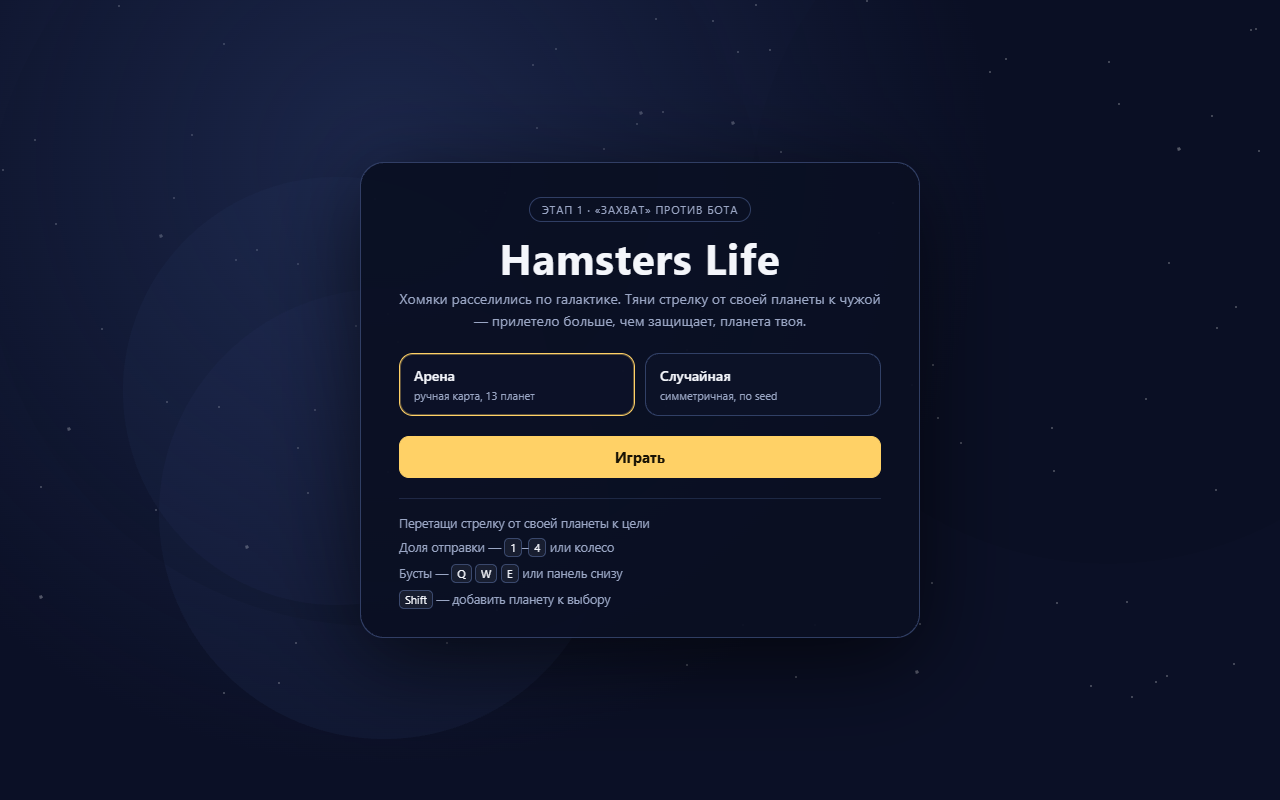
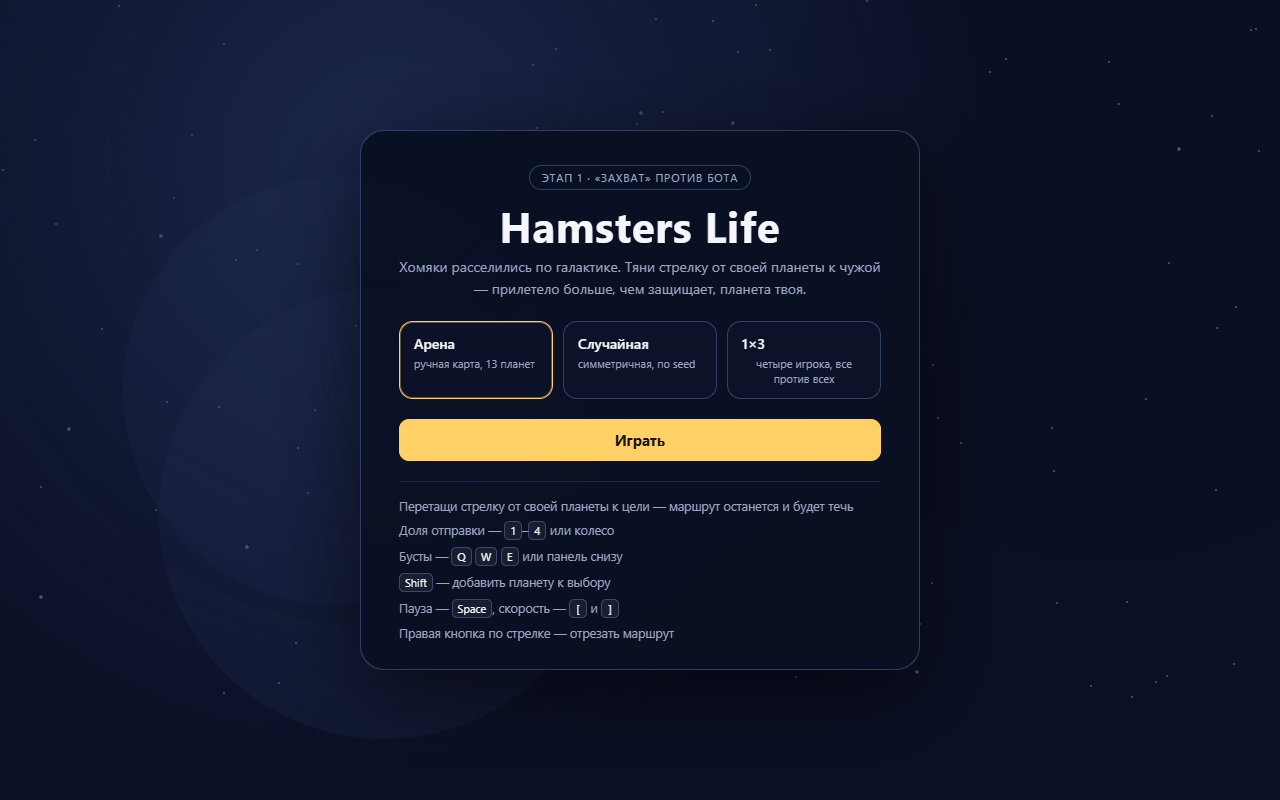
feat(ui): пауза, горячие клавиши скорости и заморозка на итогах
Кнопка паузы и пробел, [ и ] меняют скорость по списку 0.2-2, бот получает ту же скорость. На экране итогов мир останавливается. Памятка управления в меню дополнена маршрутами, паузой и резкой. Тесты stepSpeed, 169 тестов.

Changed region(s): [[0.3125, 0.1875, 0.6875, 0.8125], [0.2812, 0.1562, 0.4062, 0.2188]]

diff --git a/apps/client/src/input/keyboardInput.ts b/apps/client/src/input/keyboardInput.ts
@@ -1,9 +1,12 @@
 /**
- * Клавиатура: доли 1–4, бусты Q/W/E. Раскладка собрана таблицей, поэтому
- * добавление горячей клавиши — одна строка, а не ветка в обработчике.
+ * Клавиатура: доли 1–4, бусты Q/W/E, пауза — пробел, скорость — [ и ].
+ * Раскладка собрана таблицами, поэтому новая горячая клавиша — одна строка,
+ * а не ветка в обработчике. Клавиши скорости читаются по `code`, чтобы
+ * работать в русской раскладке.
  */
 import type { BoostKind, Ratio } from '@hamsters/core';
 import type { GamePresenter } from '../presenter/gamePresenter';
+import { stepSpeed } from '../ui/speeds';
 
 const RATIO_KEYS: Readonly<Record<string, Ratio>> = {
   '1': 25,
@@ -21,13 +24,18 @@ const BOOST_KEYS: Readonly<Record<string, BoostKind>> = {
   у: 'defense',
 };
 
-export class KeyboardInput {
-  readonly #presenter: () => GamePresenter | null;
-  readonly #onRatio: (ratio: Ratio) => void;
+export interface KeyboardInputOptions {
+  readonly presenter: () => GamePresenter | null;
+  readonly onRatio: (ratio: Ratio) => void;
+  readonly onSpeed: (speed: number) => void;
+  readonly onTogglePause: () => void;
+}
 
-  constructor(presenter: () => GamePresenter | null, onRatio: (ratio: Ratio) => void) {
-    this.#presenter = presenter;
-    this.#onRatio = onRatio;
+export class KeyboardInput {
+  readonly #options: KeyboardInputOptions;
+
+  constructor(options: KeyboardInputOptions) {
+    this.#options = options;
   }
 
   attach(): void {
@@ -39,14 +47,26 @@ export class KeyboardInput {
   }
 
   #onKeyDown = (event: KeyboardEvent): void => {
-    const presenter = this.#presenter();
+    const presenter = this.#options.presenter();
     if (!presenter) return;
-    const key = event.key.toLowerCase();
 
+    if (event.code === 'Space') {
+      event.preventDefault();
+      this.#options.onTogglePause();
+      return;
+    }
+
+    if (event.code === 'BracketLeft' || event.code === 'BracketRight') {
+      const direction = event.code === 'BracketRight' ? 1 : -1;
+      this.#options.onSpeed(stepSpeed(presenter.speed, direction));
+      return;
+    }
+
+    const key = event.key.toLowerCase();
     const ratio = RATIO_KEYS[key];
     if (ratio !== undefined) {
       presenter.setRatio(ratio);
-      this.#onRatio(ratio);
+      this.#options.onRatio(ratio);
       return;
     }
 

diff --git a/apps/client/src/main.tsx b/apps/client/src/main.tsx
@@ -61,8 +61,7 @@ let bots: BotRunner[] = [];
 let recorder: MatchRecorder | null = null;
 let matchCounter = 0;
 
-function mapFor(choice: string, seed: number): MapDefinition {
-  if (choice === 'three') return generateDuelMap(seed, { playerCount: 4 });
+function mapFor(choice: string, seed: number): MapDefinition {  if (choice === 'three') return generateDuelMap(seed, { playerCount: 4 });
   if (stressMode) return generateDuelMap(seed, { neutralPairs: 18 });
   return choice === 'random' ? generateDuelMap(seed) : getMap(CONTENT.defaultMapName);
 }
@@ -147,16 +146,32 @@ function downloadReplay(): void {
   URL.revokeObjectURL(url);
 }
 
+let lastSpeed = 1;
+
+/** Скорость применяется ко всем участникам: мир, игрок и боты. */
+function applySpeed(value: number): void {
+  if (value > 0) lastSpeed = value;
+  setSpeed(value);
+  presenter?.setSpeed(value);
+  for (const bot of bots) bot.setSpeed(value);
+}
+
+function togglePause(): void {
+  applySpeed(speed() > 0 ? 0 : lastSpeed);
+}
+
 const pointer = new PointerInput(app.canvas, scene, () => presenter);
 pointer.attach();
 
 // Браузер разрешает звук только после действия пользователя.
 window.addEventListener('pointerdown', () => scene.unlockAudio(), { once: true });
 
-const keyboard = new KeyboardInput(
-  () => presenter,
-  (value) => setRatio(value),
-);
+const keyboard = new KeyboardInput({
+  presenter: () => presenter,
+  onRatio: (value) => setRatio(value),
+  onSpeed: applySpeed,
+  onTogglePause: togglePause,
+});
 keyboard.attach();
 
 const wheel = new WheelInput(app.canvas, () => presenter, (value) => setRatio(value));
@@ -187,11 +202,8 @@ render(
         // В меню выбор только запоминается; в игре — начинается новый матч.
         if (started()) startMatch(choice);
       }}
-      onSpeed={(value) => {
-        setSpeed(value);
-        presenter?.setSpeed(value);
-        for (const bot of bots) bot.setSpeed(value);
-      }}
+      onSpeed={applySpeed}
+      onTogglePause={togglePause}
       onStart={() => {
         scene.unlockAudio();
         startMatch();

diff --git a/apps/client/src/ui/GameHud.tsx b/apps/client/src/ui/GameHud.tsx
@@ -3,6 +3,7 @@ import type { BoostKind, Ratio } from '@hamsters/core';
 import { For, Show } from 'solid-js';
 import type { BoardView, HudView, QualityLevel } from '../presenter/viewModel';
 import { BoostIcon } from './BoostIcon';
+import { SPEEDS } from './speeds';
 
 const RATIOS: readonly Ratio[] = [25, 50, 75, 100];
 
@@ -19,7 +20,7 @@ const MAP_OPTIONS: readonly { value: string; label: string }[] = [
 ];
 
 /** Скорость игры: шаг 0.2 до 1, затем 1.5 и 2. */
-const SPEEDS: readonly number[] = [0.2, 0.4, 0.6, 0.8, 1, 1.5, 2];
+const SPEED_LABEL = (value: number): string => (value === 0 ? 'Пауза' : `×${value}`);
 
 const BOOST_LABEL: Readonly<Record<BoostKind, string>> = {
   production: 'Колесо',
@@ -40,6 +41,7 @@ export interface GameHudProps {
   readonly onQuality: (quality: QualityLevel) => void;
   readonly onMap: (choice: string) => void;
   readonly onSpeed: (speed: number) => void;
+  readonly onTogglePause: () => void;
   readonly onAudio: (enabled: boolean) => void;
   readonly onRestart: () => void;
   readonly onDownloadReplay: () => void;
@@ -82,14 +84,22 @@ export function GameHud(props: GameHudProps) {
         </div>
 
         <div class="top-actions">
+          <button
+            class="button"
+            type="button"
+            title="Пауза (пробел)"
+            onClick={props.onTogglePause}
+          >
+            {props.speed() === 0 ? '▶' : '⏸'}
+          </button>
           <select
             class="select"
             aria-label="Скорость игры"
-            value={String(props.speed())}
+            value={String(props.speed() === 0 ? 1 : props.speed())}
             onChange={(event) => props.onSpeed(Number(event.currentTarget.value))}
           >
             <For each={SPEEDS}>
-              {(value) => <option value={String(value)}>{`×${value}`}</option>}
+              {(value) => <option value={String(value)}>{SPEED_LABEL(value)}</option>}
             </For>
           </select>
           <select

diff --git a/apps/client/src/ui/MainMenu.tsx b/apps/client/src/ui/MainMenu.tsx
@@ -45,7 +45,7 @@ export function MainMenu(props: MainMenuProps) {
         </button>
 
         <ul class="menu__controls">
-          <li>Перетащи стрелку от своей планеты к цели</li>
+          <li>Перетащи стрелку от своей планеты к цели — маршрут останется и будет течь</li>
           <li>
             Доля отправки — <kbd>1</kbd>–<kbd>4</kbd> или колесо
           </li>
@@ -55,6 +55,10 @@ export function MainMenu(props: MainMenuProps) {
           <li>
             <kbd>Shift</kbd> — добавить планету к выбору
           </li>
+          <li>
+            Пауза — <kbd>Space</kbd>, скорость — <kbd>[</kbd> и <kbd>]</kbd>
+          </li>
+          <li>Правая кнопка по стрелке — отрезать маршрут</li>
         </ul>
       </div>
     </div>

diff --git a/apps/client/src/ui/speeds.test.ts b/apps/client/src/ui/speeds.test.ts
@@ -1,0 +1,24 @@
+import { describe, expect, it } from 'vitest';
+import { SPEEDS, stepSpeed } from './speeds';
+
+describe('скорости игры', () => {
+  it('шаг 0.2 до 1, затем 1.5 и 2', () => {
+    expect([...SPEEDS]).toEqual([0.2, 0.4, 0.6, 0.8, 1, 1.5, 2]);
+  });
+
+  it('шагает вверх и вниз по списку', () => {
+    expect(stepSpeed(1, 1)).toBe(1.5);
+    expect(stepSpeed(1, -1)).toBe(0.8);
+    expect(stepSpeed(0.2, -1)).toBe(0.2);
+    expect(stepSpeed(2, 1)).toBe(2);
+  });
+
+  it('из паузы возвращает к обычной скорости', () => {
+    expect(stepSpeed(0, 1)).toBe(1);
+    expect(stepSpeed(0, -1)).toBe(0.2);
+  });
+
+  it('неизвестную скорость считает обычной', () => {
+    expect(stepSpeed(0.7, 1)).toBe(1.5);
+  });
+});

diff --git a/apps/client/src/ui/speeds.ts b/apps/client/src/ui/speeds.ts
@@ -1,0 +1,16 @@
+/**
+ * Допустимые скорости игры. Один список для HUD, клавиатуры и тестов,
+ * чтобы подписи и шаг не разъезжались.
+ */
+export const SPEEDS = [0.2, 0.4, 0.6, 0.8, 1, 1.5, 2] as const;
+
+export type GameSpeed = (typeof SPEEDS)[number];
+
+/** Следующая/предыдущая скорость в списке; 0 (пауза) — не участвует. */
+export function stepSpeed(current: number, direction: 1 | -1): number {
+  if (current <= 0) return direction > 0 ? 1 : 0.2;
+  const index = SPEEDS.findIndex((value) => value === current);
+  if (index < 0) return stepSpeed(1, direction);
+  const next = SPEEDS[Math.min(SPEEDS.length - 1, Math.max(0, index + direction))];
+  return next ?? current;
+}

diff --git a/apps/client/src/ui/App.tsx b/apps/client/src/ui/App.tsx
@@ -20,6 +20,7 @@ export interface AppProps {
   readonly onQuality: (quality: QualityLevel) => void;
   readonly onMap: (choice: string) => void;
   readonly onSpeed: (speed: number) => void;
+  readonly onTogglePause: () => void;
   readonly onStart: () => void;
   readonly onAudio: (enabled: boolean) => void;
   readonly onRestart: () => void;
@@ -58,6 +59,7 @@ export function App(props: AppProps) {
           onQuality={props.onQuality}
           onMap={props.onMap}
           onSpeed={props.onSpeed}
+          onTogglePause={props.onTogglePause}
           onAudio={props.onAudio}
           onRestart={props.onRestart}
           onDownloadReplay={props.onDownloadReplay}

diff --git a/apps/client/src/presenter/gamePresenter.ts b/apps/client/src/presenter/gamePresenter.ts
@@ -215,6 +215,8 @@ export class GamePresenter {
     if (!outcome) return;
     this.#outcomePlayed = true;
     this.#view.playOutcome(outcome.youWon);
+    // Мир замирает на экране итогов: дальше считать нечего.
+    this.#sim.stop();
   }
 
   /** Смена владельца между отрисовками — повод для эффекта захвата. */

diff --git a/docs/PROGRESS.md b/docs/PROGRESS.md
@@ -59,6 +59,7 @@
 - [x] Нагрузочный режим `?stress=1` (40 планет, 300 флотов) — для проверки FPS глазами в браузере.
 - [x] Постоянные маршруты (rulesVersion 2): стрелка живёт до отрезания, поток производства делится по весам, отряды выпускаются по 1 хомяку; резка ПКМ-протяжкой; маршруты видны всем цепочкой треугольников.
 - [x] Скорость игры в HUD: 0.2/0.4/0.6/0.8/1/1.5/2; бот замедляется вместе с миром.
+- [x] Пауза (Space или кнопка), горячие клавиши скорости `[`/`]`, мир замирает на экране итогов.
 
 ### Осталось (этап 1)
 
@@ -87,6 +88,7 @@
 - **2026-11-15** — движение на постоянных маршрутах (rulesVersion 2): поток производства по стрелкам с нормализацией весов, накопление и выпуск отрядов, резка ПКМ, скорость игры 0.2–2. Тесты маршрутов и скорости; 162 теста.
 - **2026-11-15** — подкрепление выше вместимости сохраняется и не вытекает в маршруты: уходит только генерация. 164 теста.
 - **2026-11-15** — уточнено правило предела: излишек сверх вместимости теперь сбрасывается по стрелкам дополнительно к генерации; порог выпуска отряда вынесен в баланс (`minRouteFleet`). 165 тестов.
+- **2026-11-15** — пауза (пробел/кнопка), горячие клавиши скорости `[`/`]`, мир замирает на экране итогов; памятка управления в меню обновлена. 169 тестов.
 
 ## Открытые вопросы к человеку
 
